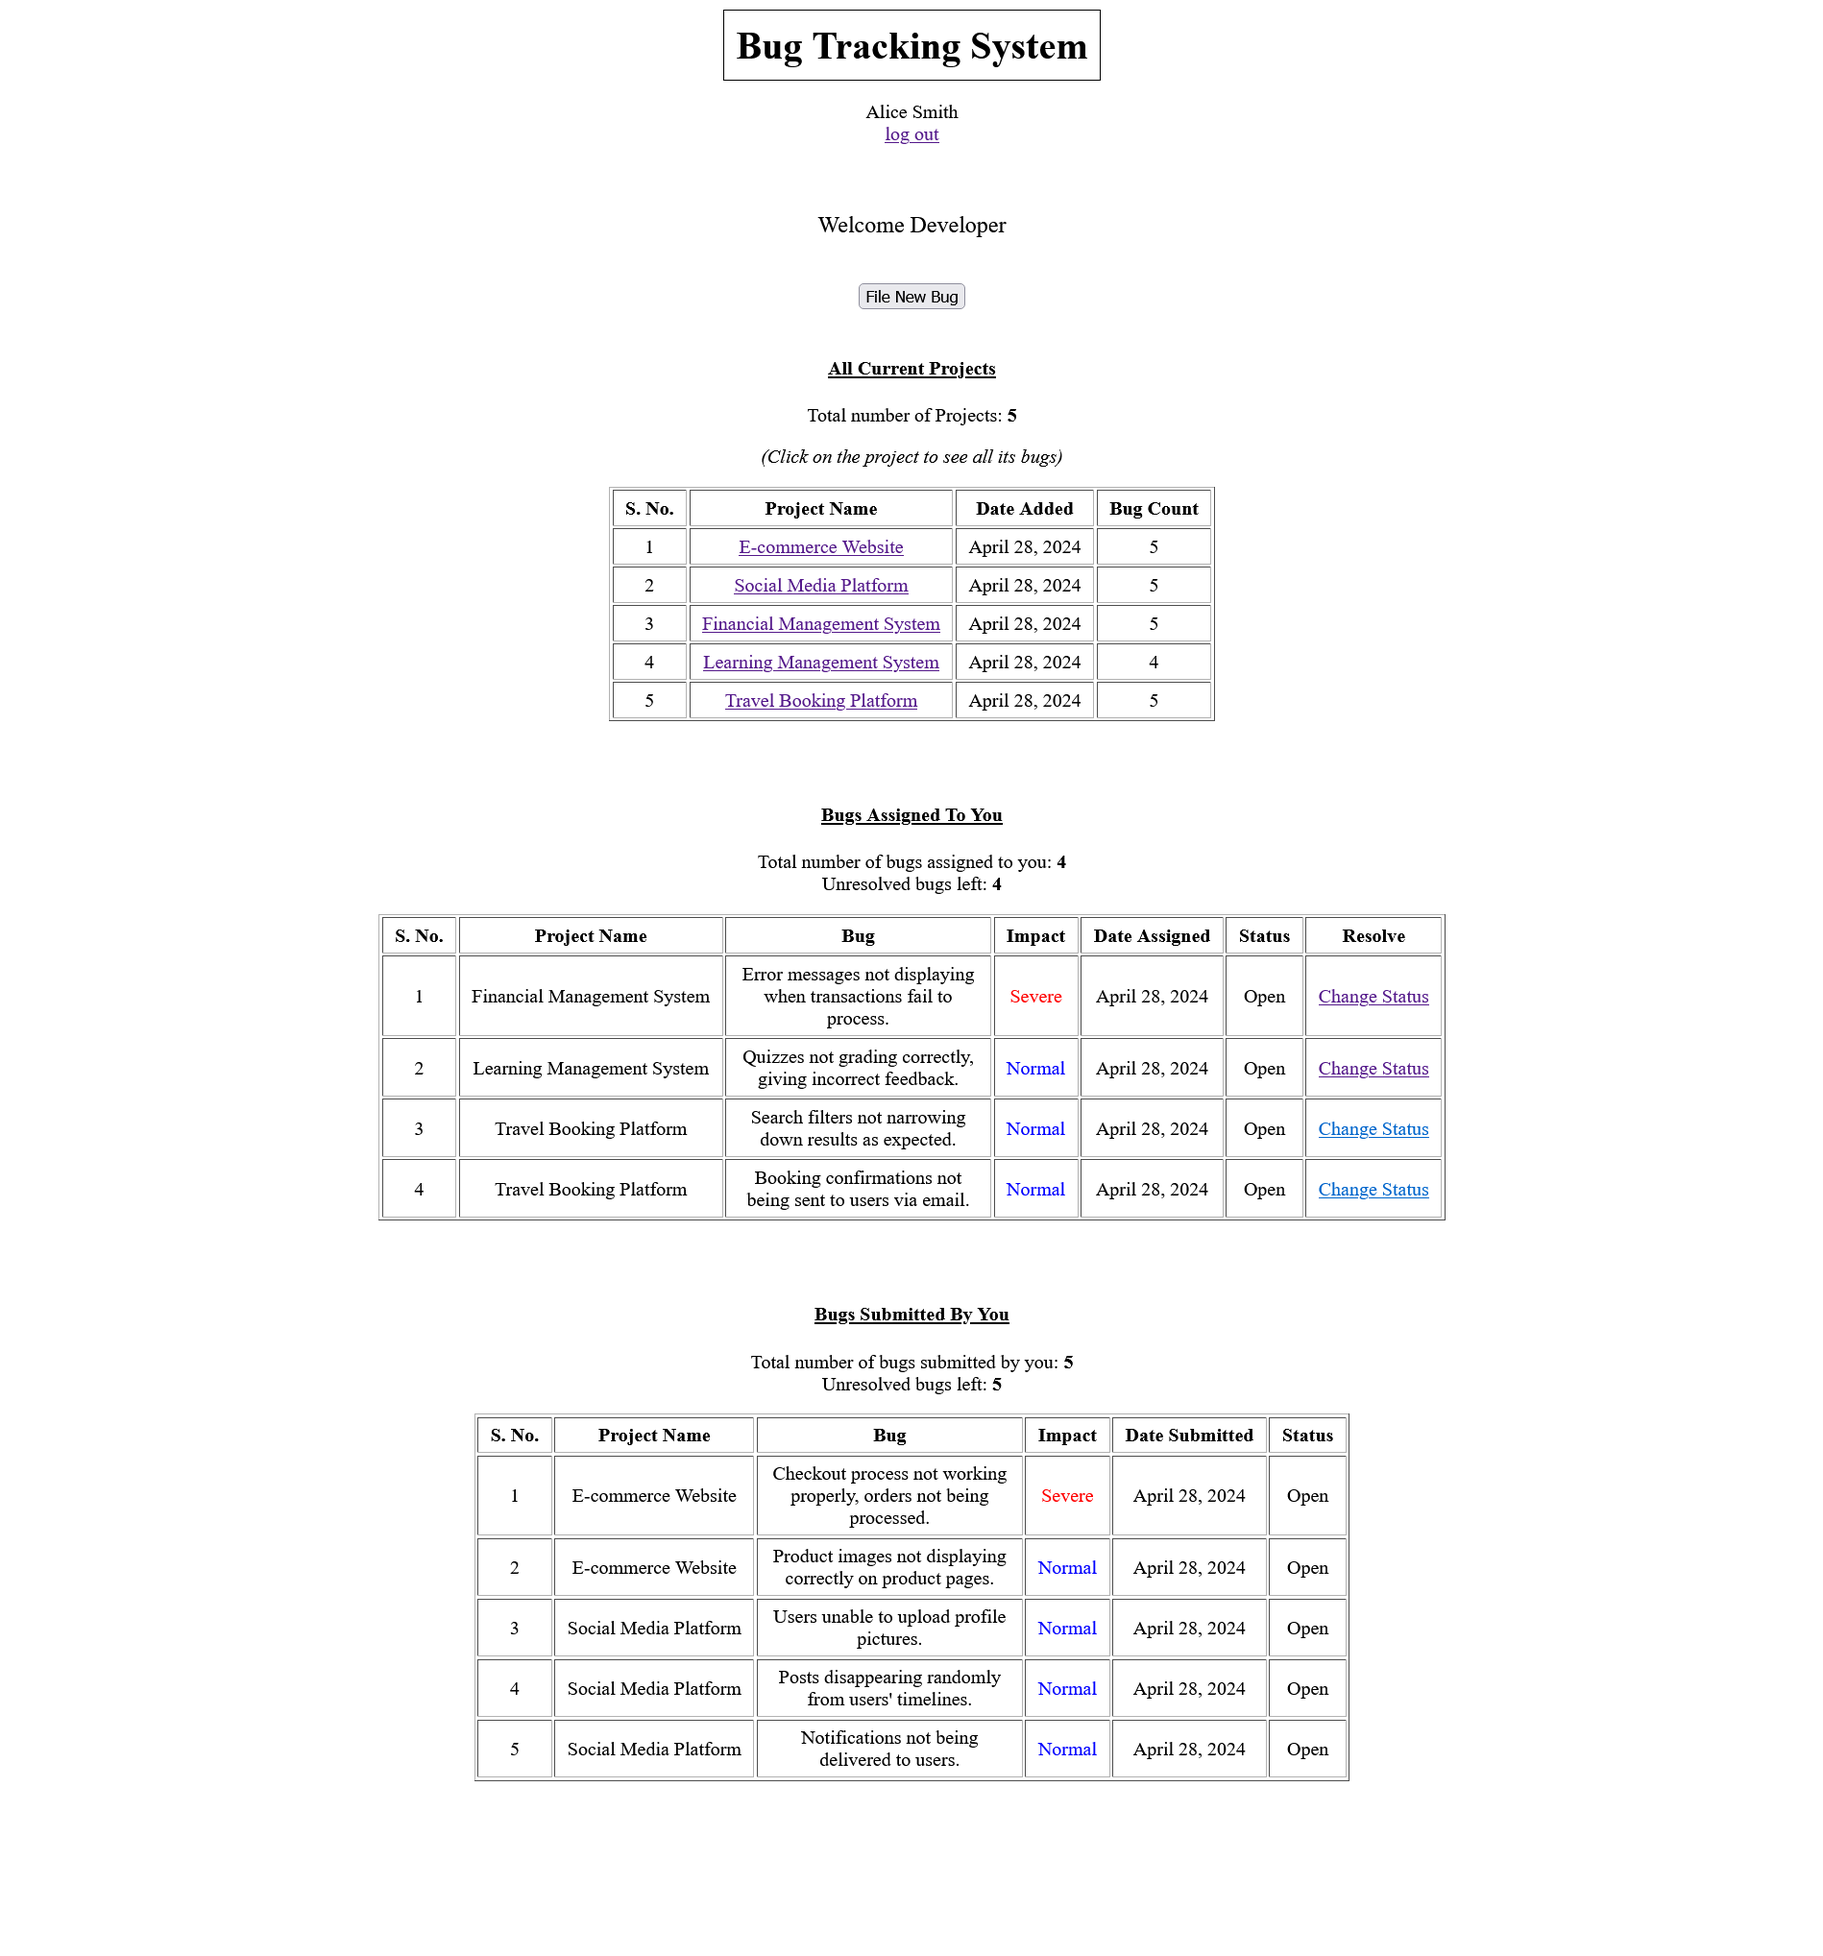
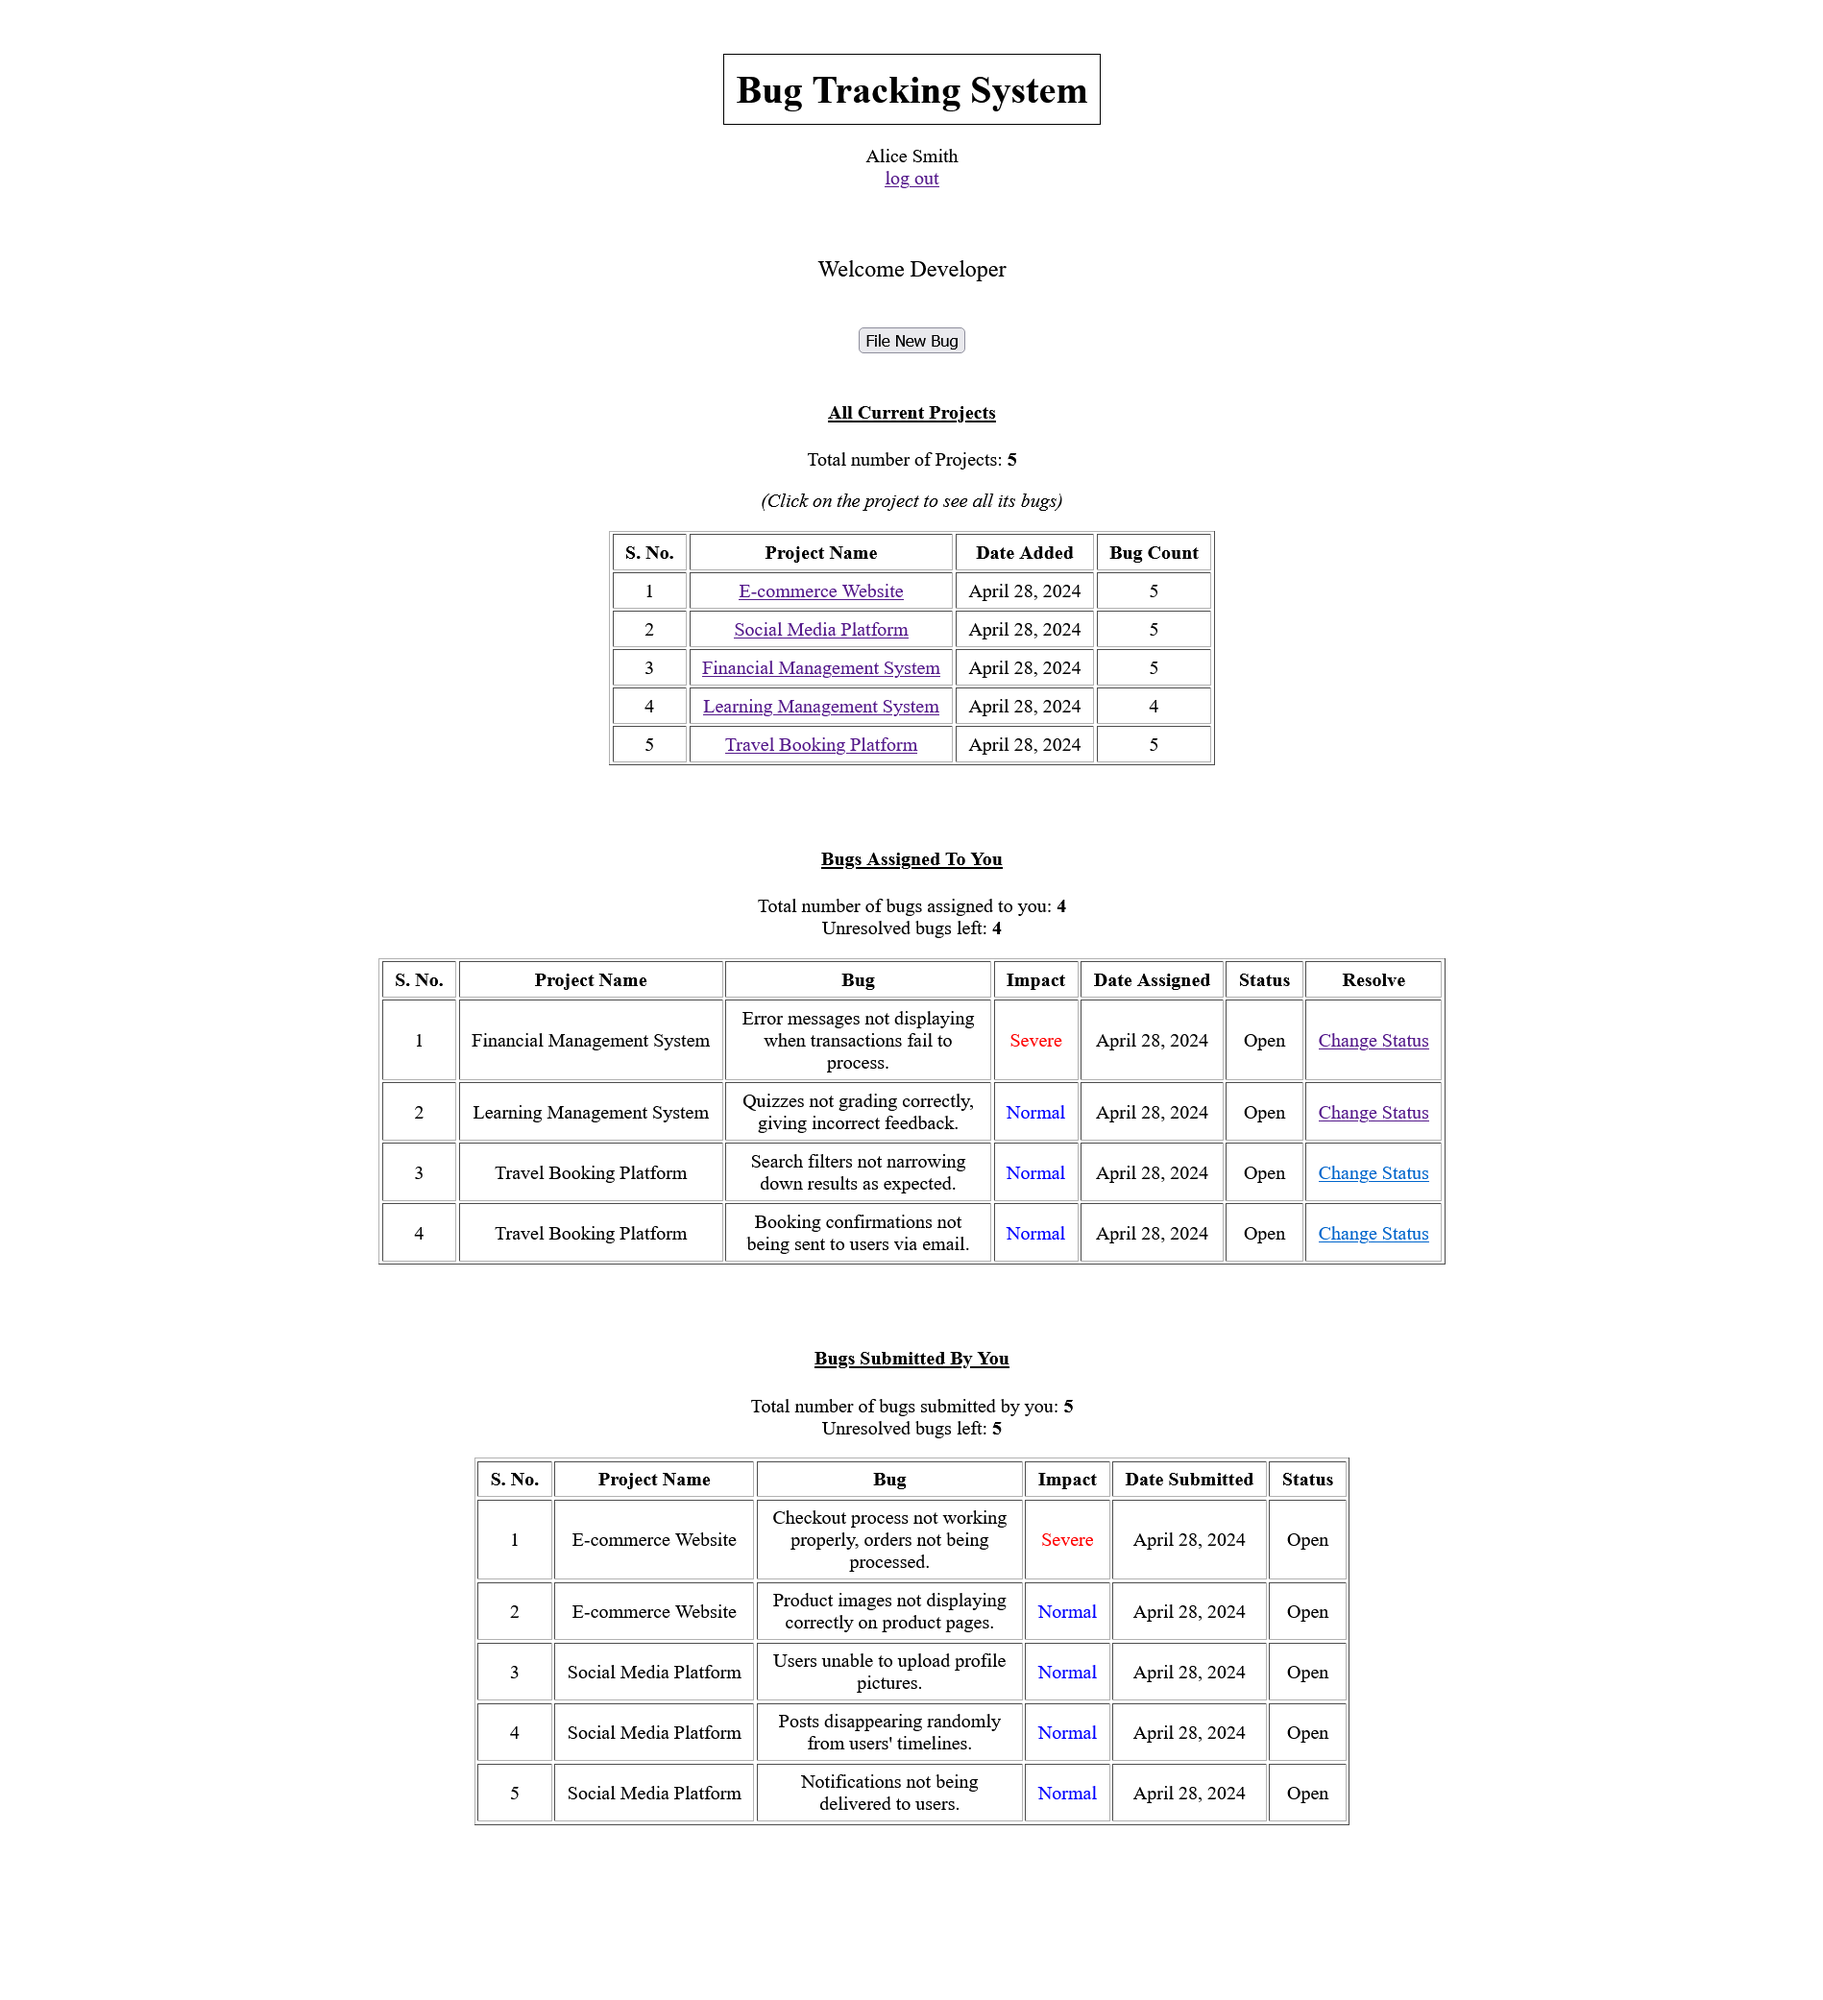
Screenshots updated

Changed region(s): [[0.2176, 0.0, 0.7771, 0.9278]]

diff --git a/BTS/templates/base.html b/BTS/templates/base.html
@@ -38,6 +38,7 @@
     </head>
 
     <body>
+        <br><br>
         <h1>Bug Tracking System</h1>
         {%  if user.is_authenticated %}
             <p>     

diff --git a/README.md b/README.md
@@ -14,15 +14,15 @@ Current developers and manager signed up can be found in ![users.xlsx](users.xls
 
 ## Screenshots
 
-
 ![Login Page](screenshots/login_page.png)
 *Login Page*
+
+![Manager Portal](screenshots/manager_portal.png)
+*manager portal*
 
 ![Developer Portal](screenshots/developer_portal.png)
 *Developer portal*
 
-![Manager Portal](screenshots/manager_portal.png)
-*manager portal*
 
 ## Installation
 
